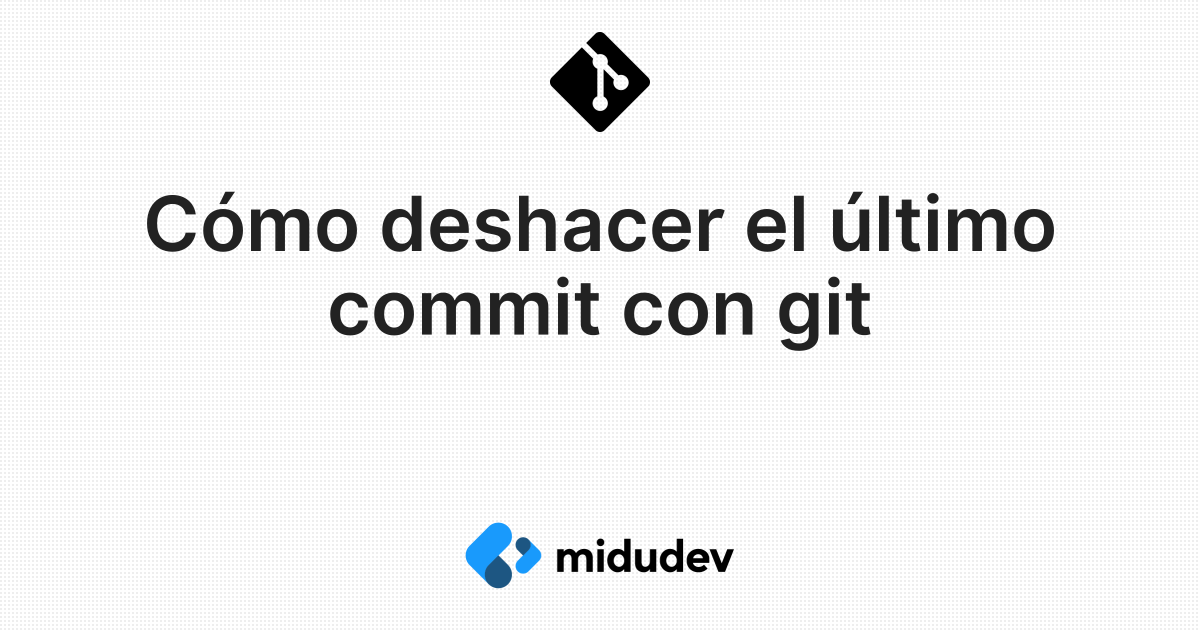
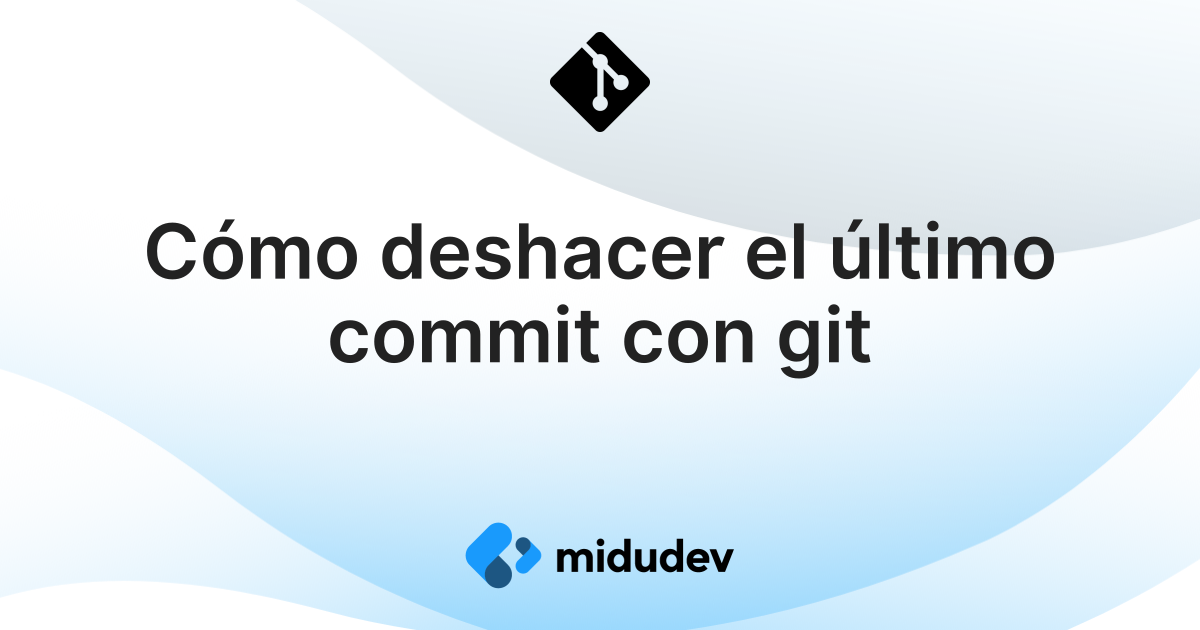
Add changes when creating og images

diff --git a/scripts/create-og-images.js b/scripts/create-og-images.js
@@ -8,6 +8,7 @@ const drawDotsPattern = require('./_lib/draw-dots-pattern')
 
 const CANVAS = { width: 1200, height: 630 }
 const PATHS = {
+  BACKGROUNDS: './static/images/og/bkgs',
   POSTS: './content/posts',
   TAGS_IMAGES: './static/images/tags',
   OG_IMAGES: './static/images/og',
@@ -24,7 +25,7 @@ const resizeImgByWidth = (img, desiredWidth) => {
   return {height: desiredHeight, width: desiredWidth}
 }
 
-const drawOgImage = ({logoImg, tagImg, title}) => {
+const drawOgImage = ({bkgImg, logoImg, tagImg, title}) => {
   const {height, width} = CANVAS
   const canvas = createCanvas(width, height)
   const context = canvas.getContext('2d')
@@ -32,10 +33,12 @@ const drawOgImage = ({logoImg, tagImg, title}) => {
   context.fillStyle = '#fff'
   context.fillRect(0, 0, width, height)
 
-  drawDotsPattern(context, width, height)
+  context.drawImage(bkgImg, 0 , 0, width, height)
 
   context.fillStyle = '#222'
   context.textAlign = 'center'
+  context.textBaseline = 'middle'
+
   drawMultiLine(context, title, {
     rect: {
 			x: width / 2,
@@ -75,9 +78,10 @@ fs.readdir(PATHS.POSTS).then(async files => {
 
       await Promise.all([
         loadImage('./static/logo.png'),
-        loadImage(`${PATHS.TAGS_IMAGES}/${tag}.png`)
-      ]).then(([logoImg, tagImg]) => {
-        const buffer = drawOgImage({title, logoImg, tagImg})
+        loadImage(`${PATHS.TAGS_IMAGES}/${tag}.png`),
+        loadImage(`${PATHS.BACKGROUNDS}/01.png`)
+      ]).then(([logoImg, tagImg,  bkgImg]) => {
+        const buffer = drawOgImage({title, logoImg, tagImg, bkgImg})
         
         const imageName = fileName.replace('.md', '.png')
         data.image = `${PATHS.OG_IMAGE_FOR_POST}/${imageName}`
